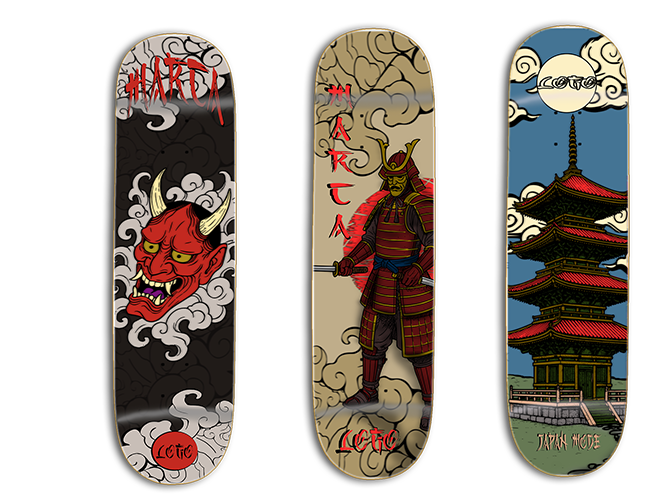
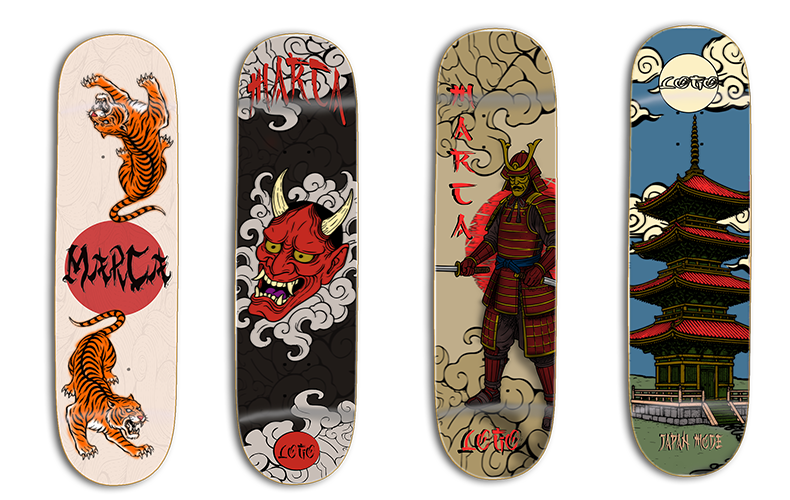
att galerry

diff --git a/index.html b/index.html
@@ -2,7 +2,7 @@
 <html lang="pt-br">
 <head>
   <meta charset="UTF-8" />
-  <meta name="viewport" content="width=device-width, initial-scale=1.0" />
+<meta name="viewport" content="width=device-width, initial-scale=1.0">
   <title>Jonas | Skate Art Portfolio</title>
   <link rel="stylesheet" href="style.css" />
 
@@ -70,16 +70,14 @@
     <h1>Catálogo</h1>
     
     <div class="portfolio-box">
-
-
       <br>
       <h2>"Oriental Mode"</h2> <h3> NOVIDADE!</h3> <br>
       <p><strong>Descrição:</strong> <br>
       
         Inspirada nos elementos místicos e culturais do Japão ancestral, a coleção ORIENTAL MODE <br>
         traz três visões marcantes do imaginário oriental: <br>
-        a fúria simbólica da máscara Hannya, a honra silenciosa do guerreiro samurai e a serenidade<br>
-         contida nas construções tradicionais japonesas.<br>
+        a fúria simbólica da máscara Hannya, a honra silenciosa do guerreiro samurai entre outras
+        imagens inconicas da cultura.<br>
         Com traços marcantes, paleta intensa e estilo vintage oriental, essa coleção traduz respeito, força e identidade.
       </p>
       <br>
@@ -87,7 +85,7 @@
         <img src="./AMOSTRAS/JPNALL.png" alt="Arte 1">
       </div>
 
-    <br><br><br><br> <HR>
+      <br><br><br><br> <HR>
         <h2>"Miami Vibes"</h2>   <h3>NOVIDADE!</h3> <BR> 
         <p><strong>Descrição:</strong> <br>
           Três shapes que capturam as 24 horas de Miami: o azul‑turquesa da manhã ensolarada,<br>
@@ -100,7 +98,7 @@ Cada deck leva a energia da cidade em uma paleta única para manter o ritmo de M
     </div>
 
           <br><br><br><br> <HR>
-        <h2>"Cartas na Manga"</h2>   <h3>NOVIDADE!</h3> <BR> 
+        <h2>"Cartas na Manga"</h2>   <h3></h3> <BR> 
         <p><strong>Descrição:</strong> <br>
             Inspirada nos personagens clássicos do baralho — o Rei, a Dama e o Coringa — <BR>
               a coleção Cartas na Manga mistura traços vintage com uma 
@@ -115,7 +113,7 @@ Cada deck leva a energia da cidade em uma paleta única para manter o ritmo de M
     </div>
 
               <br><br><br><br> <HR>
-        <h2>"Zoo Boards"</h2>   <h3>NOVIDADE!</h3> <BR> 
+        <h2>"Zoo Boards"</h2>   <h3></h3> <BR> 
         <p><strong>Descrição:</strong> <br>
           Inspirada na energia urbana e no universo do skate,<BR>
             a coleção Zoo Boards traz personagens com traços marcantes, <BR>
@@ -189,34 +187,36 @@ Cada deck leva a energia da cidade em uma paleta única para manter o ritmo de M
     <p>Nesta seção, você confere algumas das artes finalizadas que desenvolvi para clientes.<br>
        Cada projeto foi criado com foco em identidade visual, originalidade e alinhamento com a proposta de cada marca. <br>
        Aqui estão os resultados reais do meu trabalho como ilustrador de shapes e estampas.</p>
-       <div class="portfolio-box">
 
-        <br>
-          <h2>"Design Shapes para clientes"</h2>  
-           <br> <br>
-            Trabalhos feitos para algumas marcas nacionais como: Same Skateboards, <br>
-            GuaraBlack Skateboards e 
-            tambem marcas internacionais como Shuff Skateboards (Ale) <br>
-            Estas coleções  são criadas ou adaptadas a partir do catálogo, com base nas orientações dos  
-            clientes.
-          </p>
-          <div class="parede">
-            <img src="./AMOSTRAS/PAREDE-SHAPE.png" alt="Arte 1">
-        
-      </div>
-      <!--
-      <br><br><br><br> <HR>
-        <h2>"Estampas/ Personagens"</h2>  
-        <p><strong>Comentário:</strong> <br> <br>
 
-        </p>
-        <div class="gallery">
-          <img src="./AMOSTRAS/SAME1.png" alt="Arte 1">
-      
-    </div>
-    -->
-    
+           <div class="box">
+
+                <div class="gallery1">
+                 
+                    <button id="scroll-left1">  </button>
+
+                    <div class="section1">
+
+                            <div class="arte">
+                             <a>
+                              <h2>Artes para Shapes</h2>
+                                <img src="./AMOSTRAS/PAREDE-SHAPE.png" alt="imagem serie bojack">
+                            </a>
+                            </div>
+
+                            <div class="arte">
+                             <a>
+                           <h2>Artes estampas</h2>
+                                <img src="./AMOSTRAS/CAMISA.png" alt="imagem serie bojack">
+                            </a>
+                            </div>                            
+                        </div>
+
+                            <button id="scroll-right1"> </button>
+                </div>
+            </div>
 
   </section>
+       <script src="./script.js"></script>
 </body>
 </html>

diff --git a/style.css b/style.css
@@ -20,7 +20,6 @@ body {
 .btzap img {
   width:60px; height:60px;
 }
-
 header {
   background-color: #111;
   color: whitesmoke;
@@ -102,58 +101,124 @@ header nav a:hover {
   color: #51f55f;
 }
 
+
 .portfolio-box .gallery {
   display: flex;
   overflow-x: auto;
   gap: 1rem;
   margin-top: 1rem;
 }
-
 .portfolio-box .gallery img {
   height: 300px;
   border-radius: 6px;
   border: 1px solid #ccc;
 }
-.parede img {
-  margin-top: 40px;
-  border-radius: 6px;
-  border: 1px solid #ccc;
-  height: auto;
+ #estudos h1{
+  color: #3ddd4b;
+ }
+ .box{
+        padding: rem;
+    }
+.box h1{
+    color: white;
+}
+.arte img {
+  width: auto;
+  max-height: 40rem;
+  border-radius: 0.8rem;
+  height: 100%;
+}
+.arte{
+  border:solid 2px #d5e4d6;
+  border-radius: .8rem;
+  padding: 1rem;
+  margin-right: 3rem;
+
+}
+.arte h1{
+  color: #ffffff;
+}
+.gallery1{
+  
+    display: flex;
+    align-items: center;
+    align-content:bottom;
+        gap: 1rem;
+        max-width: 88rem;
+        height: 50rem;
+        overflow-x: scroll;
+        overflow-y: hidden  ;
+        white-space: nowrap; 
+        scrollbar-width: none;
+}
+.section1 {
+    position: relative;
+    display: flex;
+    align-items: center;
+    max-width: 128rem;
+    height: 50rem;
+    scrollbar-width: none;
+    overflow-x: scroll;
+    overflow-y: hidden  ;
+    }
+
+.section1::-webkit-scrollbar,
+.gallery1::-webkit-scrollbar {
+  display: none;
 }
 
+
+#scroll-left1{
+    all: unset;
+    background: linear-gradient(to right, #000000, rgba(0, 0, 0, 0.048));
+    position: absolute;
+    left: 1px; /* Lateral esquerda */
+    z-index: 10;
+    color: white;
+    padding: 8rem 7rem;
+    font-size: 20px;
+    border-radius: 5px;
+    cursor: pointer;
+    transition: background 0.3s, opacity 0.3s;
+}
+#scroll-right1{
+    background: linear-gradient(to left,#000000, rgba(41, 39, 39, 0));
+    position: absolute;
+    border: none;
+    right: 1px; /* Lateral esquerda */
+    z-index: 10;
+    color: white;
+    padding: 8rem 7rem;
+    font-size: 20px;
+    border-radius: 5px;
+    cursor: pointer;
+    transition: background 0.3s, opacity 0.3s;
+}
 @media (max-width: 768px) {
   .logo img {
     width: 100px;
-  }
-  
+  } 
   .btzap img {
   width:40px; height:40px;
 }
-
-
   header {
     flex-direction: column;
     align-items: flex-start;
   }
-
   .rdsoc {
     flex-direction: column;
   }
-
   .portfolio-box .gallery img {
     max-height: 200px;
   }
-
   .portfolio-box .gallery {
     flex-direction: row;
     overflow-x: auto;
     width: 100%;
   }
-
    .portfolio-box .parede img {
     max-height: 250px;
   }
-
   .portfolio-box .parede {
     flex-direction: row;
     overflow-x: auto;
@@ -161,6 +226,10 @@ header nav a:hover {
   }
   .section {
     padding: 2rem 1rem;
+  }
+    #scroll-left1, #scroll-right1 {
+    font-size: 1.5rem;
+    padding: 5px;
   }
 }
 

diff --git a/script.js b/script.js
@@ -1,0 +1,21 @@
+//scroll ga
+//sessao1
+document.addEventListener("DOMContentLoaded", function () {
+    const gallery = document.querySelector(".section1" ); // Seção que contém as imagens
+    const btnLeft = document.getElementById("scroll-left1");
+    const btnRight = document.getElementById("scroll-right1");
+
+    const scrollAmount = 300; // Define a quantidade de rolagem por clique
+
+    btnLeft.addEventListener("click", function () {
+        gallery.scrollBy({ left: -scrollAmount, behavior: "smooth" });
+    });
+
+    btnRight.addEventListener("click", function () {
+        gallery.scrollBy({ left: scrollAmount, behavior: "smooth" });
+    });
+});
+
+  function mostrarAlerta() {
+      alert("Olá! Este é um alerta simples em JavaScript.");
+    }
